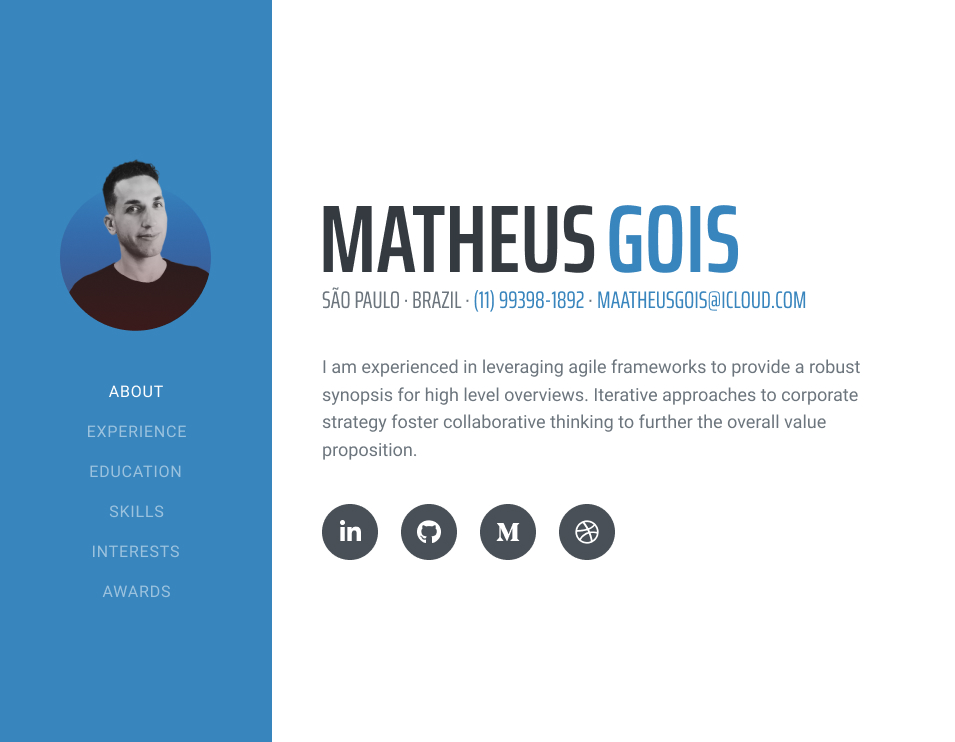
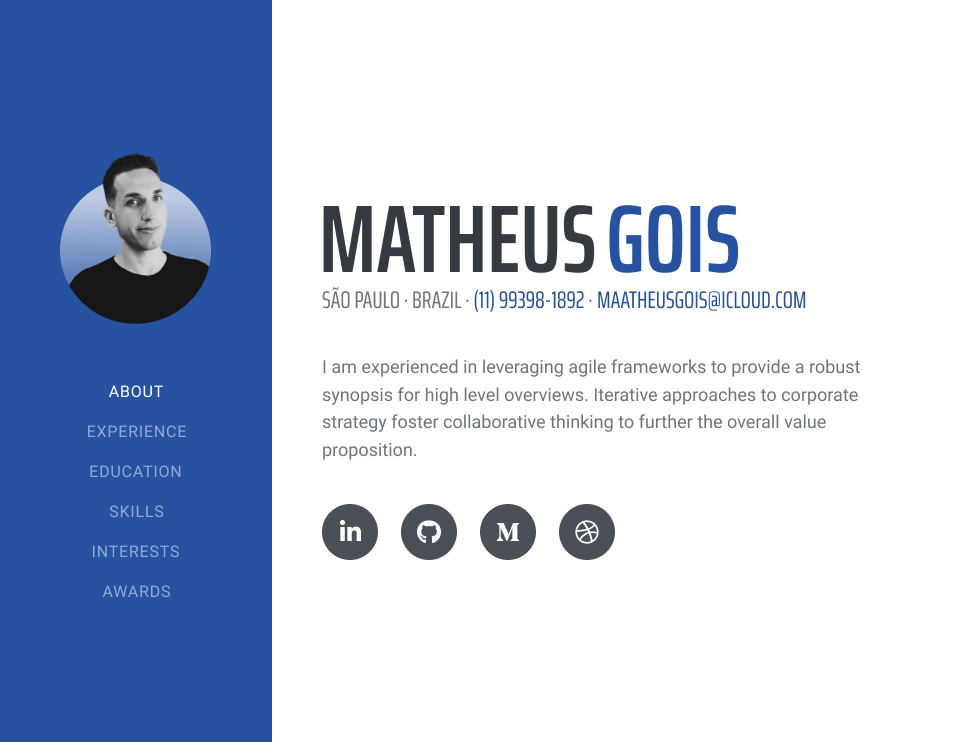
new colors

Changed region(s): [[0.0, 0.0, 0.3037, 1.0], [0.6377, 0.279, 0.8503, 0.434], [0.5162, 0.372, 0.6073, 0.434]]

diff --git a/css/styles.css b/css/styles.css
@@ -17,7 +17,7 @@
   --purple: #6f42c1;
   --pink: #e83e8c;
   --red: #dc3545;
-  --orange: #3885bd;
+  --orange: #1651A7;
   --yellow: #ffc107;
   --green: #28a745;
   --teal: #20c997;
@@ -25,7 +25,7 @@
   --white: #fff;
   --gray: #6c757d;
   --gray-dark: #343a40;
-  --primary: #3885bd;
+  --primary: #1651A7;
   --secondary: #6c757d;
   --success: #28a745;
   --info: #17a2b8;
@@ -179,7 +179,7 @@ sup {
 }
 
 a {
-  color: #3885bd;
+  color: #1651A7;
   text-decoration: none;
   background-color: transparent;
 }
@@ -2732,8 +2732,8 @@ fieldset:disabled a.btn {
 
 .btn-primary {
   color: #fff;
-  background-color: #3885bd;
-  border-color: #3885bd;
+  background-color: #1651A7;
+  border-color: #1651A7;
 }
 
 .btn-primary:hover {
@@ -2753,8 +2753,8 @@ fieldset:disabled a.btn {
 .btn-primary.disabled,
 .btn-primary:disabled {
   color: #fff;
-  background-color: #3885bd;
-  border-color: #3885bd;
+  background-color: #1651A7;
+  border-color: #1651A7;
 }
 
 .btn-primary:not(:disabled):not(.disabled):active,
@@ -3059,14 +3059,14 @@ fieldset:disabled a.btn {
 }
 
 .btn-outline-primary {
-  color: #3885bd;
-  border-color: #3885bd;
+  color: #1651A7;
+  border-color: #1651A7;
 }
 
 .btn-outline-primary:hover {
   color: #fff;
-  background-color: #3885bd;
-  border-color: #3885bd;
+  background-color: #1651A7;
+  border-color: #1651A7;
 }
 
 .btn-outline-primary:focus,
@@ -3076,7 +3076,7 @@ fieldset:disabled a.btn {
 
 .btn-outline-primary.disabled,
 .btn-outline-primary:disabled {
-  color: #3885bd;
+  color: #1651A7;
   background-color: transparent;
 }
 
@@ -3084,8 +3084,8 @@ fieldset:disabled a.btn {
 .btn-outline-primary:not(:disabled):not(.disabled).active,
 .show>.btn-outline-primary.dropdown-toggle {
   color: #fff;
-  background-color: #3885bd;
-  border-color: #3885bd;
+  background-color: #1651A7;
+  border-color: #1651A7;
 }
 
 .btn-outline-primary:not(:disabled):not(.disabled):active:focus,
@@ -3348,7 +3348,7 @@ fieldset:disabled a.btn {
 
 .btn-link {
   font-weight: 400;
-  color: #3885bd;
+  color: #1651A7;
   text-decoration: none;
 }
 
@@ -3659,7 +3659,7 @@ input[type="button"].btn-block {
 .dropdown-item:active {
   color: #fff;
   text-decoration: none;
-  background-color: #3885bd;
+  background-color: #1651A7;
 }
 
 .dropdown-item.disabled,
@@ -4021,8 +4021,8 @@ input[type="button"].btn-block {
 
 .custom-control-input:checked~.custom-control-label::before {
   color: #fff;
-  border-color: #3885bd;
-  background-color: #3885bd;
+  border-color: #1651A7;
+  background-color: #1651A7;
 }
 
 .custom-control-input:focus~.custom-control-label::before {
@@ -4088,8 +4088,8 @@ input[type="button"].btn-block {
 }
 
 .custom-checkbox .custom-control-input:indeterminate~.custom-control-label::before {
-  border-color: #3885bd;
-  background-color: #3885bd;
+  border-color: #1651A7;
+  background-color: #1651A7;
 }
 
 .custom-checkbox .custom-control-input:indeterminate~.custom-control-label::after {
@@ -4321,7 +4321,7 @@ input[type="button"].btn-block {
   width: 1rem;
   height: 1rem;
   margin-top: -0.25rem;
-  background-color: #3885bd;
+  background-color: #1651A7;
   border: 0;
   border-radius: 1rem;
   -webkit-transition: background-color 0.15s ease-in-out,
@@ -4356,7 +4356,7 @@ input[type="button"].btn-block {
 .custom-range::-moz-range-thumb {
   width: 1rem;
   height: 1rem;
-  background-color: #3885bd;
+  background-color: #1651A7;
   border: 0;
   border-radius: 1rem;
   -moz-transition: background-color 0.15s ease-in-out,
@@ -4394,7 +4394,7 @@ input[type="button"].btn-block {
   margin-top: 0;
   margin-right: 0.2rem;
   margin-left: 0.2rem;
-  background-color: #3885bd;
+  background-color: #1651A7;
   border: 0;
   border-radius: 1rem;
   -ms-transition: background-color 0.15s ease-in-out,
@@ -4541,7 +4541,7 @@ input[type="button"].btn-block {
 .nav-pills .nav-link.active,
 .nav-pills .show>.nav-link {
   color: #fff;
-  background-color: #3885bd;
+  background-color: #1651A7;
 }
 
 .nav-fill .nav-item {
@@ -5292,7 +5292,7 @@ input[type="button"].btn-block {
   padding: 0.5rem 0.75rem;
   margin-left: -1px;
   line-height: 1.25;
-  color: #3885bd;
+  color: #1651A7;
   background-color: #fff;
   border: 1px solid #dee2e6;
 }
@@ -5325,8 +5325,8 @@ input[type="button"].btn-block {
 .page-item.active .page-link {
   z-index: 3;
   color: #fff;
-  background-color: #3885bd;
-  border-color: #3885bd;
+  background-color: #1651A7;
+  border-color: #1651A7;
 }
 
 .page-item.disabled .page-link {
@@ -5411,7 +5411,7 @@ a.badge:focus {
 
 .badge-primary {
   color: #fff;
-  background-color: #3885bd;
+  background-color: #1651A7;
 }
 
 a.badge-primary:hover,
@@ -5742,7 +5742,7 @@ a.badge-dark.focus {
   color: #fff;
   text-align: center;
   white-space: nowrap;
-  background-color: #3885bd;
+  background-color: #1651A7;
   transition: width 0.6s ease;
 }
 
@@ -5840,8 +5840,8 @@ a.badge-dark.focus {
 .list-group-item.active {
   z-index: 2;
   color: #fff;
-  background-color: #3885bd;
-  border-color: #3885bd;
+  background-color: #1651A7;
+  border-color: #1651A7;
 }
 
 .list-group-item+.list-group-item {
@@ -7036,7 +7036,7 @@ a.close.disabled {
 }
 
 .bg-primary {
-  background-color: #3885bd !important;
+  background-color: #1651A7 !important;
 }
 
 a.bg-primary:hover,
@@ -7172,7 +7172,7 @@ button.bg-dark:focus {
 }
 
 .border-primary {
-  border-color: #3885bd !important;
+  border-color: #1651A7 !important;
 }
 
 .border-secondary {
@@ -10771,7 +10771,7 @@ button.bg-dark:focus {
 }
 
 .text-primary {
-  color: #3885bd !important;
+  color: #1651A7 !important;
 }
 
 a.text-primary:hover,
@@ -11111,7 +11111,7 @@ a {
 }
 
 .social-icons .social-icon:hover {
-  background-color: #3885bd;
+  background-color: #1651A7;
 }
 
 .dev-icons {

diff --git a/index.html b/index.html
@@ -48,8 +48,8 @@
     <nav class="navbar navbar-expand-lg navbar-dark bg-primary fixed-top" id="sideNav">
         <a class="navbar-brand js-scroll-trigger" href="#page-top">
             <span class="d-block d-lg-none">Matheus Gois</span>
-            <span class="d-none d-lg-block"><img class="img-fluid img-profile rounded-circle mx-auto mb-2"
-                    src="/images/profile.png" alt="" /></span>
+            <span class="d-none d-lg-block"><img class="img-fluid img-profile mx-auto mb-2" src="/images/profile.png"
+                    alt="" /></span>
         </a>
         <button class="navbar-toggler" type="button" data-toggle="collapse" data-target="#navbarSupportedContent"
             aria-controls="navbarSupportedContent" aria-expanded="false" aria-label="Toggle navigation"><span
